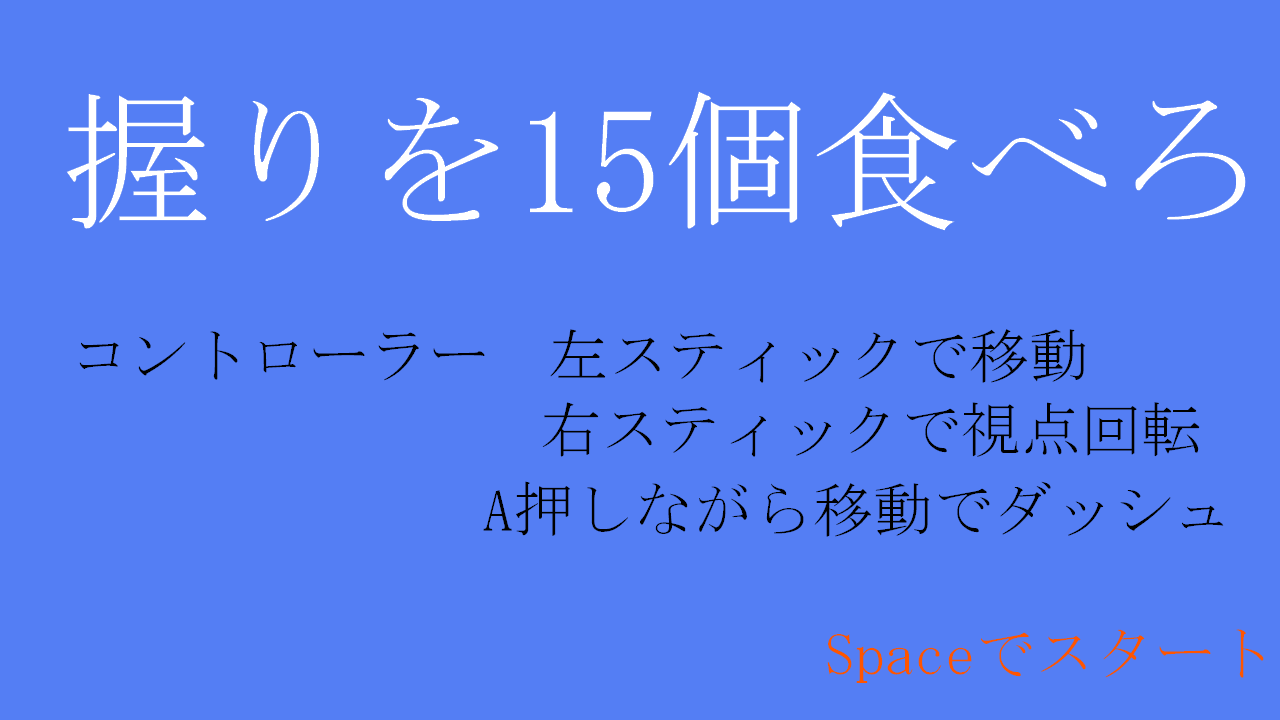
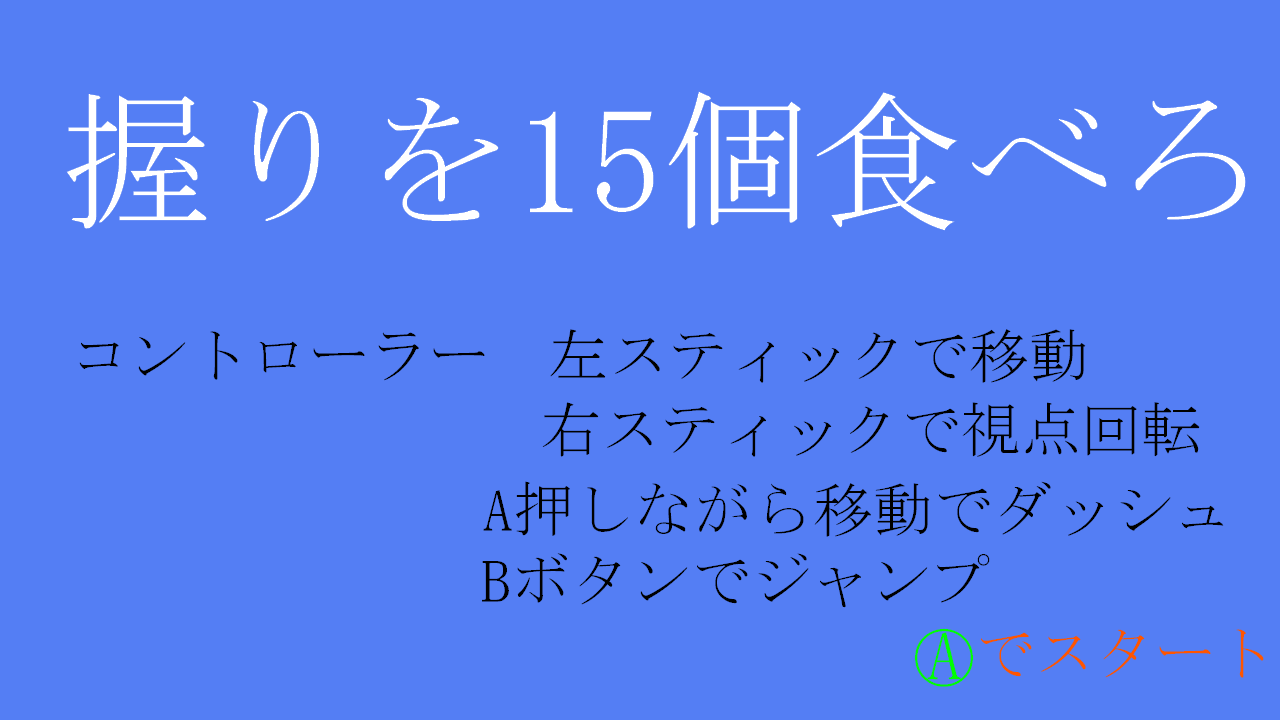
ジャンプの追加

diff --git a/DirectXGame/Player.cpp b/DirectXGame/Player.cpp
@@ -68,6 +68,12 @@ void Player::Update() {
 		BehaviorAttackInitialize();
 		
 		break;
+	case Behavior::kJump:
+
+		BehaviorJumpInitialize();
+
+		break;
+		
 	}
 	   //振る舞いリセット
 	  behaviorRequest_ = std::nullopt;
@@ -82,6 +88,12 @@ void Player::Update() {
 	case Behavior::kAttack:
 
 	  BehaviorAttackUpdate();
+
+	  break;
+
+	case Behavior::kJump:
+
+	  BehaviorJumpUpdate();
 
 	  break;
 	}
@@ -182,7 +194,15 @@ void Player::BehaviorRootUpdate() {
 
 	if (Input::GetInstance()->GetJoystickState(0, joyState)) {
 
-		
+		if (joyState.Gamepad.wButtons == XINPUT_GAMEPAD_B) {
+
+		behaviorRequest_ = Behavior::kJump;
+		}
+
+		   velocity_ = {
+		    (float)joyState.Gamepad.sThumbLX / SHRT_MAX * kCharacterSpeed, 0.0f,
+		    (float)joyState.Gamepad.sThumbLY / SHRT_MAX * kCharacterSpeed};
+
 
 
 		move.x += (float)joyState.Gamepad.sThumbLX / SHRT_MAX * kCharacterSpeed;
@@ -206,12 +226,12 @@ void Player::BehaviorRootUpdate() {
 
 		Matrix4x4 rotateXYZMatrix = Multiply(rotateXMatrix, Multiply(rotateYMatrix, rotateZMatrix));
 
-		move = TransformNormal(move, rotateXYZMatrix);
+		velocity_ = TransformNormal(velocity_, rotateXYZMatrix);
 
-		if (move.x != 0 || move.z != 0) {
+		if (velocity_.x != 0 || velocity_.z != 0) {
 
 			for (int i = 0; i < 4; i++) {
-				worldTransform_[0].rotation_.y = std::atan2(move.x, move.z);
+			worldTransform_[0].rotation_.y = std::atan2(velocity_.x, velocity_.z);
 			}
 		}
 	}
@@ -219,12 +239,16 @@ void Player::BehaviorRootUpdate() {
 	UpdateFloatingGimmick();
 
 
-	if (joyState.Gamepad.wButtons == XINPUT_GAMEPAD_A ||
-	    joyState.Gamepad.wButtons == XINPUT_GAMEPAD_B) {
+	if (joyState.Gamepad.wButtons == XINPUT_GAMEPAD_A 
+	    ) {
 
-		worldTransform_[0].translation_.x += move.x * 10;
-		worldTransform_[0].translation_.y += move.y;
-		worldTransform_[0].translation_.z += move.z * 10;
+		velocity_.x *= 10;
+
+		velocity_.z *= 10;
+
+		worldTransform_[0].translation_.x += velocity_.x ;
+		worldTransform_[0].translation_.y += velocity_.y;
+		worldTransform_[0].translation_.z += velocity_.z;
 
 		
 		worldTransform_[2].rotation_ = {0.45f, 0.0f, 0.0f};
@@ -234,9 +258,13 @@ void Player::BehaviorRootUpdate() {
 
 	} else {
 	
-		worldTransform_[0].translation_.x += move.x * 7;
-		worldTransform_[0].translation_.y += move.y;
-		worldTransform_[0].translation_.z += move.z * 7;
+		velocity_.x *= 7;
+
+		velocity_.z *= 7;
+
+		worldTransform_[0].translation_.x += velocity_.x ;
+		worldTransform_[0].translation_.y += velocity_.y;
+		worldTransform_[0].translation_.z += velocity_.z ;
 
 		worldTransform_[2].rotation_ = {0.0f, 0.0f, 0.0f};
 
@@ -344,6 +372,34 @@ void Player::Reset() {
 	worldTransform_[3].rotation_ = {0.0f, 0.0f, 0.0f};
 	worldTransform_[3].translation_ = {0.51f, 1.26f, 0.0f};
 
+}
+void Player::BehaviorJumpInitialize() {
+	worldTransform_[0].translation_.y = 0.0f;
+
+	worldTransform_[2].rotation_.x = 0;
+	;
+	worldTransform_[3].rotation_.x = 0;
+
+	const float kJumpFirstSpeed = 1.0f;
+
+	velocity_.y = kJumpFirstSpeed;
+}
+
+void Player::BehaviorJumpUpdate() {
+
+	worldTransform_[0].translation_ = Add(worldTransform_[0].translation_, velocity_);
+
+	const float kGravityAcceleration = 0.06f;
+
+	Vector3 accelerationVector = {0, -kGravityAcceleration, 0};
+
+	velocity_ = Add(velocity_, accelerationVector);
+
+	if (worldTransform_[0].translation_.y < 0.0f) {
+	worldTransform_[0].translation_.y = 0;
+
+	behaviorRequest_ = Behavior::kRoot;
+	}
 }
 
 void Player::OnColision() {}

diff --git a/DirectXGame/scene/TitleScene.cpp b/DirectXGame/scene/TitleScene.cpp
@@ -43,18 +43,33 @@ void TitleScene::Update()
 		voiceHandle_ = audio_->PlayWave(soundDataHandle_);
 	}
 	
-		if (input_->TriggerKey(DIK_SPACE) && titleMenu == kTitle) {
+	  XINPUT_STATE joyState;
 
-		titleMenu = kManual;
-	} else
+	if (Input::GetInstance()->GetJoystickState(0, joyState)) {
+	
+		  if (joyState.Gamepad.wButtons == XINPUT_GAMEPAD_A && titleMenu == kManual) {
+			titleMenu = kTitle;
+			audio_->StopWave(voiceHandle_);
+			isSceneEnd = true;
+		} else {
+			isSceneEnd = false;
+		}
+	
+		 if (input_->TriggerKey(DIK_SPACE) && titleMenu == kTitle) {
 
-	    if (input_->TriggerKey(DIK_SPACE) && titleMenu == kManual) {
-		titleMenu = kTitle;
-		audio_->StopWave(voiceHandle_);
-		isSceneEnd = true;
-	} else {
-		isSceneEnd = false;
+			titleMenu = kManual;
+		} 
+
+		 if (input_->TriggerKey(DIK_R)) {
+
+			titleMenu = kTitle;
+		} 
+
 	}
+
+	
+
+	    
 
 
 

diff --git a/DirectXGame/Aitem.cpp b/DirectXGame/Aitem.cpp
@@ -87,6 +87,8 @@ void Aitem::OnColision1() {
   
 	worldTransform_[0].translation_.x = (float)n;
 
+	
+
 	n = rand() % 100 - 100;
 
 	worldTransform_[0].translation_.z = (float)n;
@@ -102,6 +104,17 @@ void Aitem::OnColision2() {
 
 	worldTransform_[1].translation_.x = (float)n;
 
+	n = rand() % 9 + 1;
+	if (n > 5) {
+
+	n = 9;
+
+	} else {
+	n = 4;
+	}
+	worldTransform_[1].translation_.y = (float)n;
+
+
 	n = rand() % 100 - 100;
 
 	worldTransform_[1].translation_.z = (float)n;
@@ -116,6 +129,16 @@ void Aitem::OnColision3() {
 	n = rand() % 100 - 100;
 
 	worldTransform_[2].translation_.x = (float)n;
+
+	n = rand() % 9 + 1;
+	if (n > 3) {
+
+	n = 9;
+
+	} else {
+	n = 4;
+	}
+	worldTransform_[2].translation_.y = (float)n;
 
 	n = rand() % 100 - 100;
 

diff --git a/DirectXGame/Player.h b/DirectXGame/Player.h
@@ -17,7 +17,7 @@ class Player : public BaseCharacter {
 	enum  class Behavior {
 		kRoot,
 		kAttack,
-
+		kJump,
 	};
 
 
@@ -54,6 +54,11 @@ class Player : public BaseCharacter {
 	// 攻撃行動初期化
 	void BehaviorAttackInitialize();
 
+	// ジャンプ行動初期化
+	void BehaviorJumpInitialize();
+	// ジャンプ行動更新
+	void BehaviorJumpUpdate();
+
 	void Reset();
 
 	void OnColision();
@@ -82,6 +87,7 @@ private:
 	float X = 0;
 	float Ease = 0;
 
-
+    // 速度
+	Vector3 velocity_ = {};
 
 	};
